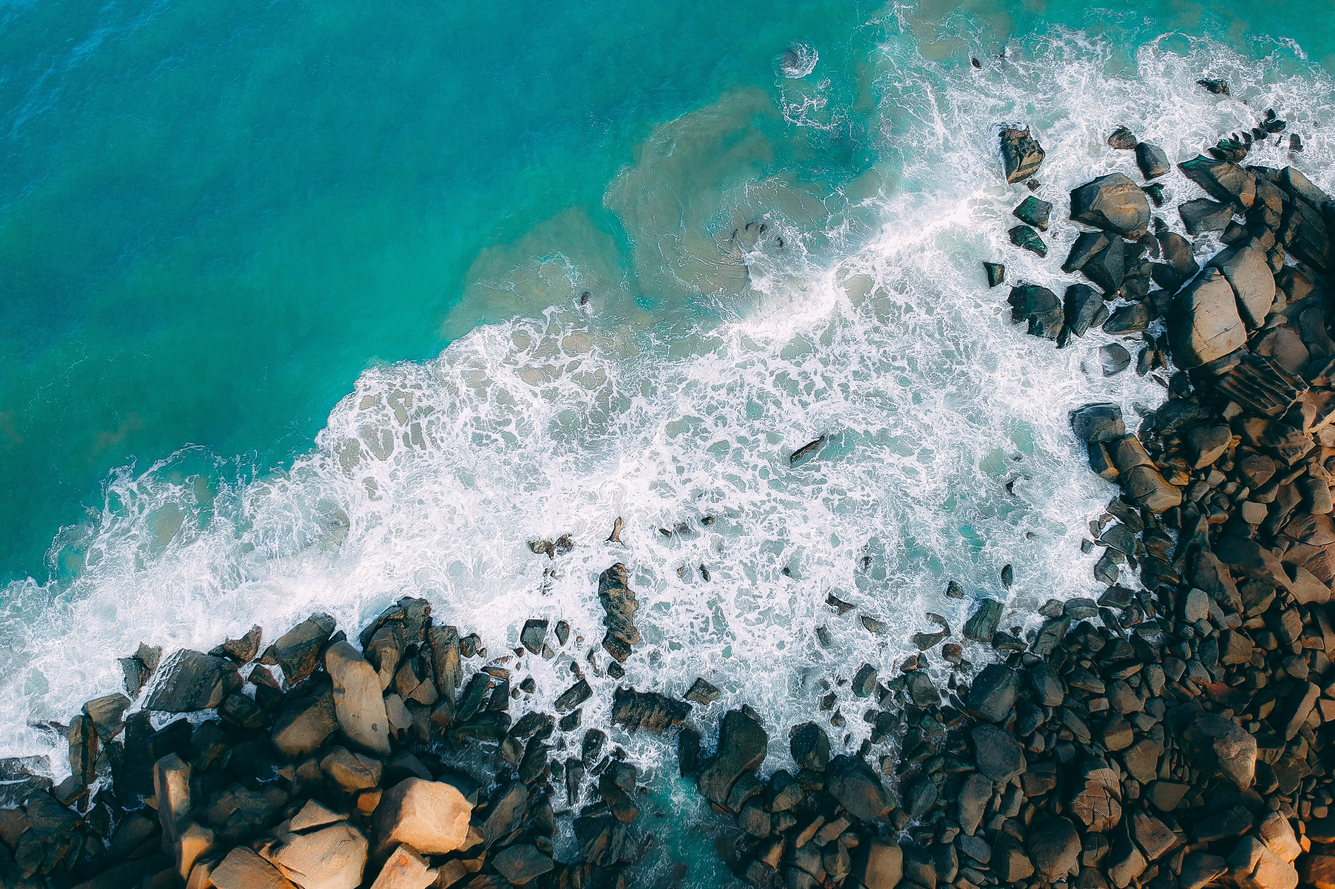
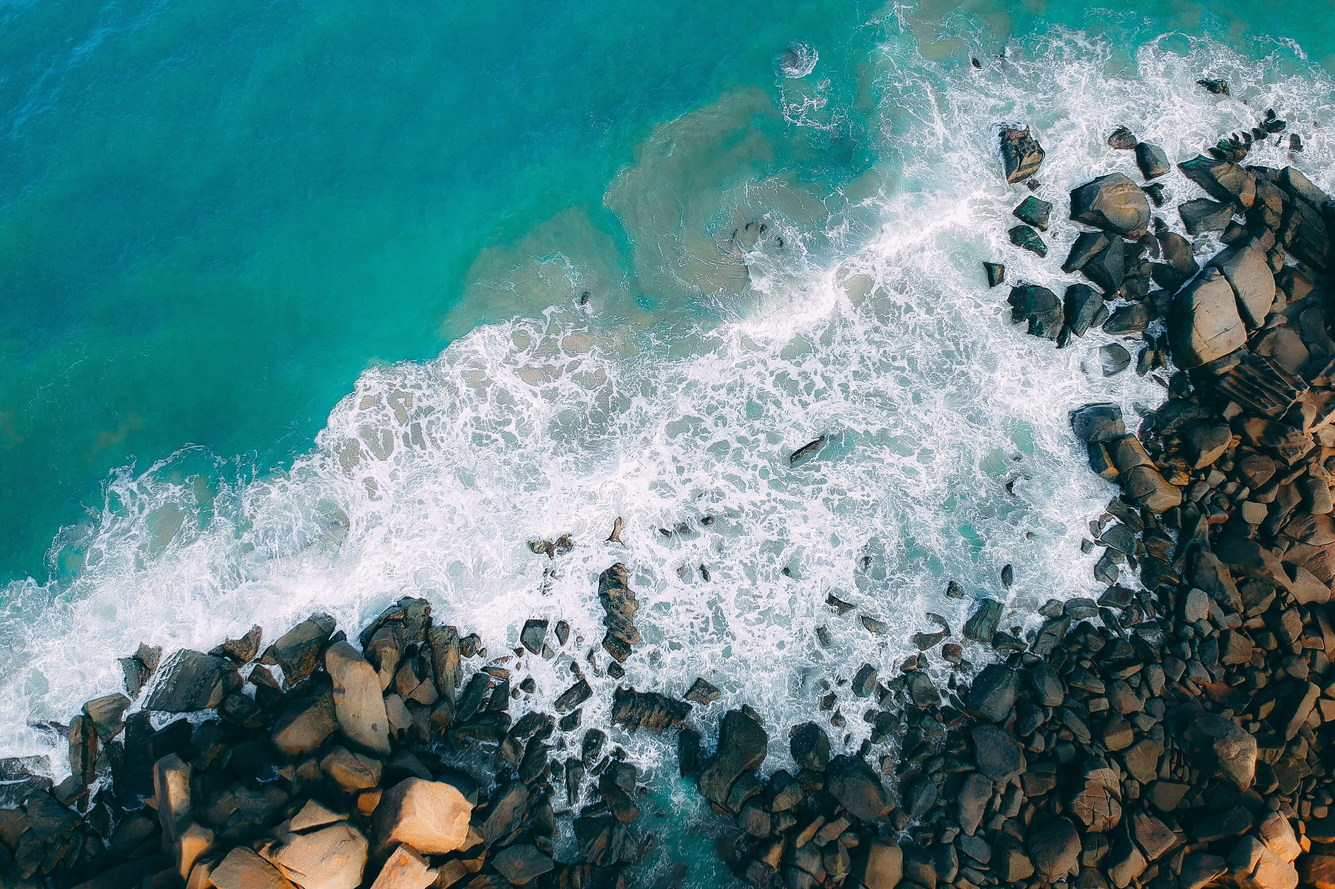
Optimized images for sign up / in pages and main page hero image.

diff --git a/client/src/pages/AccountManipulationPages/SignUpPage.js b/client/src/pages/AccountManipulationPages/SignUpPage.js
@@ -29,7 +29,7 @@ const SignUpPage = ({ domain, setIsJustSignedUp }) => {
   // }, []);
 
   //Google OAuth
-  const login = useGoogleLogin({
+  const googleLogin = useGoogleLogin({
     onSuccess: async (tokenResponse) => {
       //get user info from google account
       try {
@@ -75,6 +75,84 @@ const SignUpPage = ({ domain, setIsJustSignedUp }) => {
       }
     },
   });
+
+  // Facebook OAuth
+  // get prettier to not say fb is undefined
+  /*global FB*/
+  //import facebook's javascript sdk
+  window.fbAsyncInit = function () {
+    FB.init({
+      appId: "790444795516757",
+      xfbml: true,
+      version: "v2.6",
+    });
+
+    FB.getLoginStatus(function (response) {
+      //this.statusChangeCallback(response);
+    });
+  };
+
+  (function (d, s, id) {
+    var js,
+      fjs = d.getElementsByTagName(s)[0];
+    if (d.getElementById(id)) {
+      return;
+    }
+    js = d.createElement(s);
+    js.id = id;
+    js.src = "//connect.facebook.net/en_US/sdk.js";
+    fjs.parentNode.insertBefore(js, fjs);
+  })(document, "script", "facebook-jssdk");
+  // log in with facebook log in button
+  async function fbLoginFetch(response) {
+    console.log("oauth sign fetch sent");
+    fetch(`${domain}/oauth/sign/facebook`, {
+      method: "POST",
+      headers: { "Content-type": "application/json" },
+      body: JSON.stringify(response),
+    })
+      .then((response) =>
+        response
+          .json()
+          .then((resJSON) => JSON.stringify(resJSON))
+          .then((stringJSON) => JSON.parse(stringJSON))
+          .then((parsedJSON) => {
+            if (parsedJSON.status === 404) {
+              //if sign in fails
+              setInvalidCredentialsAlert(
+                <div className="sign-in-page__invalid-username-or-password-alert-box">
+                  Invalid username or password.
+                </div>
+              );
+            } else {
+              console.log("ok");
+              localStorage.setItem("user", JSON.stringify(parsedJSON));
+              dispatch({ type: "LOGIN", payload: parsedJSON });
+              window.location.href = "/";
+              //navigate("/");
+            }
+          })
+      )
+      .catch((err) => console.log(err));
+  }
+  function FBLogin() {
+    FB.login(
+      function (response) {
+        if (response.status === "connected") {
+          // Logged into your webpage and Facebook.
+          console.log(response);
+          FB.api("/me", { fields: "name,email" }, function (response) {
+            console.log(response);
+            fbLoginFetch(response);
+          });
+        } else {
+          // The person is not logged into your webpage or we are unable to tell.
+          console.log("they didnt log in with fb");
+        }
+      },
+      { scope: "public_profile, email" }
+    );
+  }
 
   //states for username, email and password input values
   const [username, setUsername] = useState("");
@@ -295,7 +373,7 @@ const SignUpPage = ({ domain, setIsJustSignedUp }) => {
             Join PicPocket
           </div>
           <button
-            onClick={() => login()}
+            onClick={() => googleLogin()}
             className="sign-in-page__oauth-button"
           >
             <div>
@@ -303,7 +381,10 @@ const SignUpPage = ({ domain, setIsJustSignedUp }) => {
               Google
             </div>
           </button>
-          <button className="sign-in-page__oauth-button">
+          <button
+            className="sign-in-page__oauth-button"
+            onClick={() => FBLogin()}
+          >
             <div>
               <img src={facebookOauthIcon}></img>Facebook
             </div>
@@ -415,7 +496,7 @@ const SignUpPage = ({ domain, setIsJustSignedUp }) => {
         <div className="sign-in-page__collage-image-container">
           <img
             className="sign-in-page__collage-image"
-            src={signInPageCollageImg}
+            src="https://res.cloudinary.com/dtyg4ctfr/image/upload/q_40/dpr_auto/v1679877712/PicPocket-SignIn-Collage2-min_xd12qc.jpg"
           ></img>
         </div>
       </div>

diff --git a/server/server.js b/server/server.js
@@ -55,21 +55,21 @@ app.get("/", (req, res) => {
 
 // for https
 
-https.createServer(options, app).listen(port, () => {
-  dbo.connectToServer((err) => {
-    if (err) console.log(err);
-  });
-  console.log("server has connected.");
-});
-
-// for normal
-
-// app.listen(port, () => {
+// https.createServer(options, app).listen(port, () => {
 //   dbo.connectToServer((err) => {
 //     if (err) console.log(err);
 //   });
 //   console.log("server has connected.");
 // });
+
+// for normal
+
+app.listen(port, () => {
+  dbo.connectToServer((err) => {
+    if (err) console.log(err);
+  });
+  console.log("server has connected.");
+});
 
 //upload image(s) post
 app.use("/upload", upload.array("files", 200), async (req, res) => {

diff --git a/client/src/App.js b/client/src/App.js
@@ -34,8 +34,8 @@ import "bootstrap/dist/css/bootstrap.min.css";
 
 function App() {
   //domain for fetch routes. either localhost or heroku depending on if you are developing or building to deploy to netlify
-  // let domain = "http://localhost:5000";
-  let domain = "https://localhost:5000";
+  let domain = "http://localhost:5000";
+  // let domain = "https://localhost:5000";
   // let domain = "https://picpoccket.herokuapp.com";
 
   // testing for netlify CD

diff --git a/client/src/components/MainPageHeroImage.js b/client/src/components/MainPageHeroImage.js
@@ -76,7 +76,7 @@ const MainPageHeroImage = () => {
     <div className="carousel__container">
       <div className="carousel__black-bg-for-image">
         <img
-          src={mainImage}
+          src="https://res.cloudinary.com/dtyg4ctfr/image/upload/q_40/dpr_auto/v1679876969/pexels-water-rocks-4k-full_mssmdr.jpg"
           loading="lazy"
           className="carousel__hero-image"
         ></img>

diff --git a/client/src/pages/AccountManipulationPages/SignInPage.js b/client/src/pages/AccountManipulationPages/SignInPage.js
@@ -346,7 +346,7 @@ const SignInPage = ({
         <div className="sign-in-page__collage-image-container">
           <img
             className="sign-in-page__collage-image"
-            src={signInPageCollageImg}
+            src="https://res.cloudinary.com/dtyg4ctfr/image/upload/q_40/dpr_auto/v1679877712/PicPocket-SignIn-Collage2-min_xd12qc.jpg"
           ></img>
         </div>
       </div>
